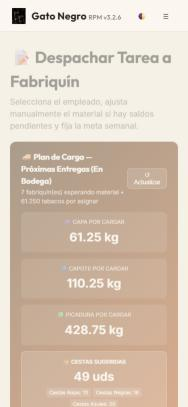
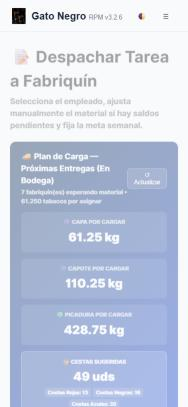
docs(taller): capturas antes tomadas del commit original a24fbc5

diff --git a/documentacion/taller/01_diagnostico.md b/documentacion/taller/01_diagnostico.md
@@ -3,7 +3,9 @@
 Fecha de medición: 2026-11-17 · Servidor local `localhost:3001` · Rama `feature/taller-mejoramiento`
 Método: inspección en navegador (escritorio 1366 px, tableta 768 px, móvil 375 px) y conteo programático en el DOM de cada pantalla.
 
-> Nota de honestidad: las capturas "antes" corresponden al código actual de `main`, que ya incluye el rediseño artesanal parcial (tokens cobre, landing, loader). Es la línea base **de este taller**. Las cifras de la columna Evidencia son medidas reales, no estimaciones.
+> Origen de las capturas: las 15 capturas "antes" se tomaron del **commit original `a24fbc5`** (anterior al rediseño artesanal), ejecutado en un worktree aparte en el puerto 3002 con la misma base de datos. Las métricas de la sección 2 se midieron en ambas versiones (`a24fbc5` y la rama actual) y **coinciden**: el rediseño previo cambió CSS y paleta, no la estructura DOM, por lo que los hallazgos estructurales (labels, ARIA, estilos inline, modales, `alert`/`confirm`) son válidos para el estado original. Las cifras son medidas reales, no estimaciones.
+>
+> Diferencia visible entre versiones: en `a24fbc5` el tema es frío (azul/gris, tipografía en negrita pesada en el menú) y `/movimientos` muestra barra de scroll horizontal en escritorio; en la versión actual el menú y la paleta cobre ya fueron mejorados.
 
 ## 1. Pantallas base y capturas originales
 
